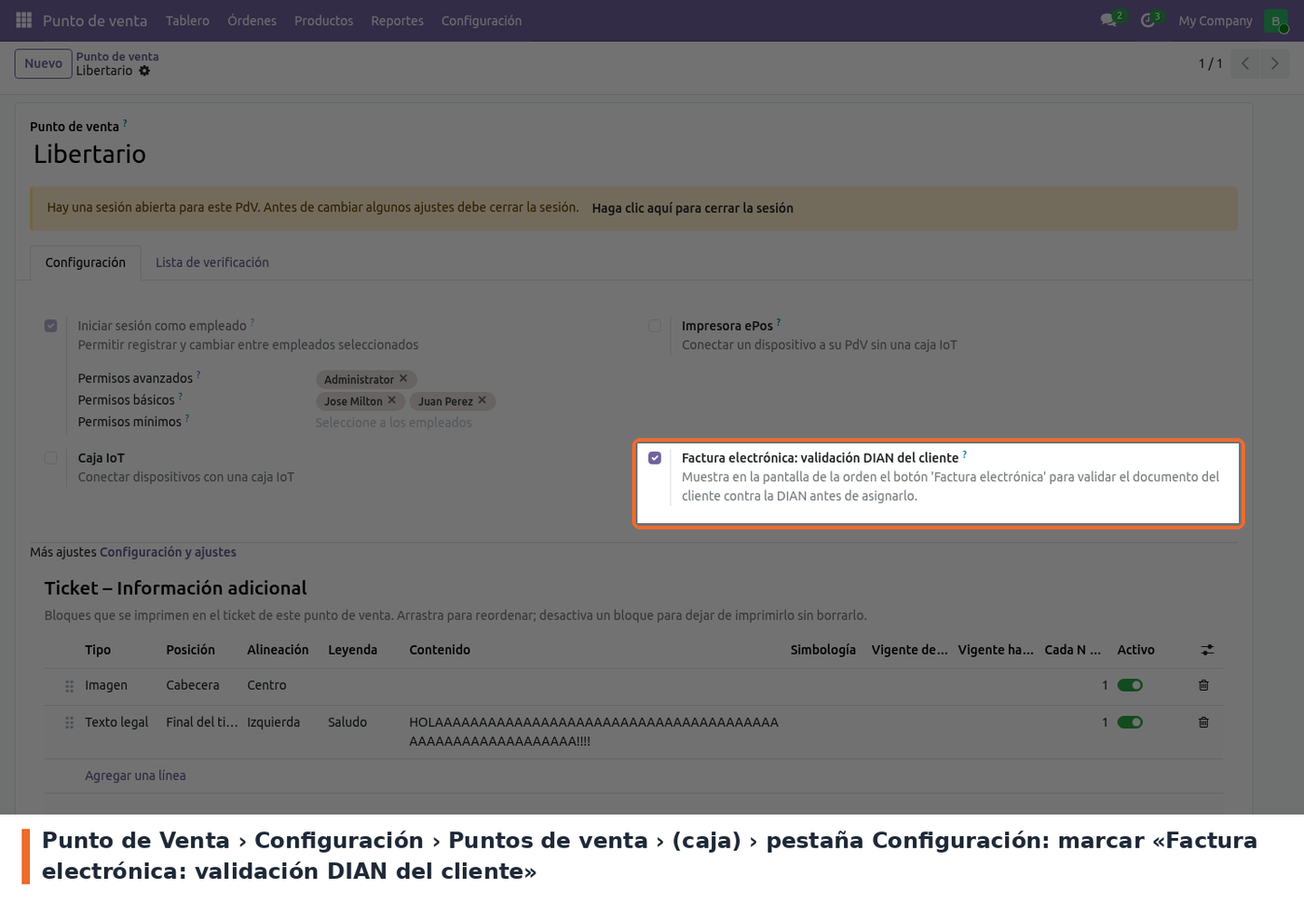
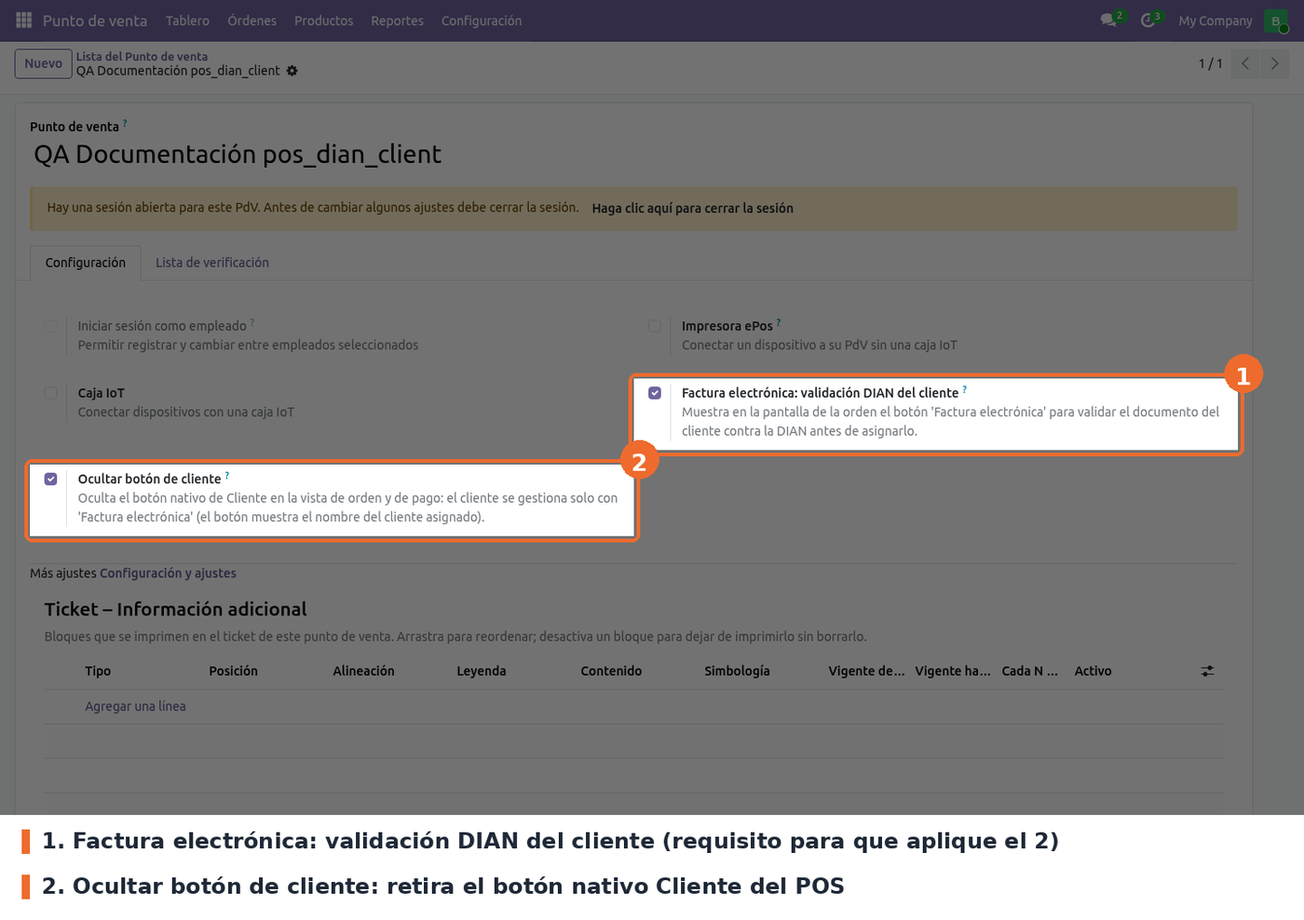
Feat: [UPD] - pos_dian_client: Mejora en la funcionalidad de ocultar el botón de cliente, incluyendo validaciones y ajustes en la interfaz de usuario.

diff --git a/custom-addons/pos_dian_client/static/description/index.html b/custom-addons/pos_dian_client/static/description/index.html
@@ -24,11 +24,15 @@ nombre y el correo con el cliente antes de asignar.</p>
 <p style="margin:0 0 12px;"><strong>Efecto colateral:</strong> el módulo <strong>oculta siempre</strong> el botón nativo <em>Guardar orden</em> (ícono de
 subida, <code style="background:#f3f4f6;border:1px solid #e5e7eb;border-radius:4px;padding:1px 5px;font-size:13px;color:#b91c1c;">fa-upload</code>) en la pantalla de producto y en la barra de acciones de pantallas chicas, esté
 activo o no el botón <em>Factura electrónica</em> en esa caja.</p>
-<p style="margin:0 0 12px;"><strong>Ocultar botón de cliente (por caja, opcional):</strong> el segundo ajuste de configuración retira el
-botón nativo <em>Cliente</em> de la vista de orden (escritorio y móvil) y de la vista de pago (donde
-<em>Factura/Recibo</em> pasa a ocupar todo el ancho). El cliente se gestiona entonces solo con <em>Factura
-electrónica</em>, que muestra debajo el nombre del cliente ya asignado. Con esta opción activa no hay
-forma de desasignar un cliente desde la interfaz.</p>
+<p style="margin:0 0 12px;"><strong>Ocultar botón de cliente (por caja, opcional):</strong> un segundo ajuste retira el botón nativo
+<em>Cliente</em> de la pantalla de producto (escritorio y barra de acciones móvil) y de la pantalla de
+pago. <strong>Solo tiene efecto si la caja también tiene marcado</strong> <em>Factura electrónica: validación DIAN
+del cliente</em>; con ese ajuste desmarcado, el botón <em>Cliente</em> sigue visible para que la caja no se
+quede sin forma de asignar cliente. Con los dos marcados, el cliente se gestiona solo con
+<em>Factura electrónica</em>, que muestra debajo el nombre del cliente asignado; en la pantalla de pago
+<em>Factura electrónica</em> pasa a la misma fila que <em>Recibo/Factura</em>, en el lugar de <em>Cliente</em>, y se resalta con el color principal del POS cuando la orden exige
+cliente y todavía no lo tiene. <strong>No hay forma de desasignar un cliente desde la interfaz</strong> con esta
+opción activa.</p>
 <div><span style="display:inline-block;background:#eef2ff;color:#4338ca;border:1px solid #c7d2fe;border-radius:999px;padding:2px 12px;font-size:12px;font-weight:600;margin:0 0 6px;">Odoo 19.0</span></div>
 <h2>Configuración</h2>
 <h2 style="font-size:19px;font-weight:600;color:#111827;margin:34px 0 12px;padding-bottom:6px;border-bottom:1px solid #e5e7eb;">Requisitos</h2>
@@ -53,12 +57,16 @@ forma de desasignar un cliente desde la interfaz.</p>
 <strong>Configuración</strong>, marcar <strong>Factura electrónica: validación DIAN del cliente</strong>. El ajuste viene
 marcado de forma predeterminada; desmarcarlo oculta los botones <em>Factura electrónica</em> en esa caja.
 El botón <em>Guardar orden</em> queda oculto igual, con el ajuste marcado o no.</p>
-<p style="margin:0 0 12px;">Justo debajo está <strong>Ocultar botón de cliente</strong> (viene desmarcado): al marcarlo, el botón nativo de
-<em>Cliente</em> desaparece de la vista de orden (escritorio y móvil) y de la vista de pago, y
-<em>Factura/Recibo</em> ocupa todo el ancho. El cliente se gestiona entonces solo con <em>Factura
-electrónica</em>, que muestra debajo el nombre del cliente ya asignado. Con esta opción no hay forma de
-desasignar un cliente desde la interfaz.</p>
-<div class="lc-fig"><img alt="Punto de Venta › Configuración › Puntos de venta › (caja) › Configuración: marcar «Factura electrónica: validación DIAN del cliente»" src="01_configuracion.png" / style="display:block;max-width:100%;height:auto;margin:16px auto 6px;border:1px solid #e5e7eb;border-radius:8px;box-shadow:0 1px 4px rgba(0,0,0,.08);"><p class="lc-cap" style="margin:0 0 24px;font-size:13px;font-style:italic;color:#6b7280;text-align:center;">Punto de Venta › Configuración › Puntos de venta › (caja) › Configuración: marcar «Factura electrónica: validación DIAN del cliente»</p></div>
+<p style="margin:0 0 12px;">A continuación está <strong>Ocultar botón de cliente</strong> (viene desmarcado). Al marcarlo, el botón
+nativo <em>Cliente</em> desaparece de la pantalla de producto (escritorio y móvil) y de la pantalla de
+pago, donde <em>Factura electrónica</em> toma su lugar junto a <em>Recibo/Factura</em>. El cliente se gestiona entonces solo con
+<em>Factura electrónica</em>, que muestra debajo el nombre del cliente ya asignado.</p>
+<p style="margin:0 0 12px;"><strong>Solo tiene efecto si «Factura electrónica: validación DIAN del cliente» también está marcado.</strong>
+Si se desmarca la validación DIAN, el botón <em>Cliente</em> vuelve a aparecer aunque <em>Ocultar botón de
+cliente</em> siga marcado.</p>
+<p style="margin:0 0 12px;"><strong>Atención:</strong> con esta opción activa no hay forma de desasignar un cliente desde la interfaz del
+POS.</p>
+<div class="lc-fig"><img alt="Punto de Venta › Configuración › Puntos de venta › (caja) › Configuración: 1. «Factura electrónica: validación DIAN del cliente»; 2. «Ocultar botón de cliente», que solo aplica con el 1 marcado" src="01_configuracion.png" / style="display:block;max-width:100%;height:auto;margin:16px auto 6px;border:1px solid #e5e7eb;border-radius:8px;box-shadow:0 1px 4px rgba(0,0,0,.08);"><p class="lc-cap" style="margin:0 0 24px;font-size:13px;font-style:italic;color:#6b7280;text-align:center;">Punto de Venta › Configuración › Puntos de venta › (caja) › Configuración: 1. «Factura electrónica: validación DIAN del cliente»; 2. «Ocultar botón de cliente», que solo aplica con el 1 marcado</p></div>
 <p style="margin:0 0 12px;">La caja puede tener una sesión abierta mientras se cambia el ajuste. El POS lo toma la próxima vez
 que se carga.</p>
 <h2 style="font-size:19px;font-weight:600;color:#111827;margin:34px 0 12px;padding-bottom:6px;border-bottom:1px solid #e5e7eb;">Opcional</h2>
@@ -106,6 +114,25 @@ con ese tipo o corregir el contacto en <em>Contactos</em>.</p>
 <p style="margin:0 0 12px;">En la pantalla de pago, el cliente aparece asignado y <strong>Recibo/Factura</strong> marcado. Al validar el
 pago, la factura sale a nombre de ese cliente y <code style="background:#f3f4f6;border:1px solid #e5e7eb;border-radius:4px;padding:1px 5px;font-size:13px;color:#b91c1c;">l10n_co_edi_jorels</code> la envía a la DIAN.</p>
 <div class="lc-fig"><img alt="Pantalla de pago: cliente asignado y Recibo/Factura marcado" src="08_pago_factura.png" / style="display:block;max-width:100%;height:auto;margin:16px auto 6px;border:1px solid #e5e7eb;border-radius:8px;box-shadow:0 1px 4px rgba(0,0,0,.08);"><p class="lc-cap" style="margin:0 0 24px;font-size:13px;font-style:italic;color:#6b7280;text-align:center;">Pantalla de pago: cliente asignado y Recibo/Factura marcado</p></div>
+<p style="margin:0 0 12px;">El botón de factura nativo de Odoo se llama <em>Invoice</em>; con el idioma Español (Latinoamérica) se lee
+<strong>Recibo/Factura</strong> y con Español (España) <strong>Factura</strong>. Es el mismo botón.</p>
+<h2 style="font-size:19px;font-weight:600;color:#111827;margin:34px 0 12px;padding-bottom:6px;border-bottom:1px solid #e5e7eb;">6. Cajas con «Ocultar botón de cliente»</h2>
+<p style="margin:0 0 12px;">Si la caja tiene marcados <strong>los dos</strong> ajustes (<em>Factura electrónica: validación DIAN del cliente</em> y
+<em>Ocultar botón de cliente</em>), el botón nativo <em>Cliente</em> no aparece y todo se hace con <strong>Factura
+electrónica</strong>:</p>
+<p style="margin:0 0 12px;"><strong>Pantalla de producto</strong> (escritorio y barra de acciones móvil): queda <em>Factura electrónica</em> (o
+<em>FE</em> en pantallas chicas) en lugar de <em>Cliente</em>. Una vez asignado, el nombre del cliente aparece
+debajo del botón (en móvil, al lado de <em>FE</em>).</p>
+<div class="lc-fig"><img alt="Pantalla de producto con «Ocultar botón de cliente»: el cliente asignado se ve bajo «Factura electrónica»" src="10_ocultar_cliente_producto.png" / style="display:block;max-width:100%;height:auto;margin:16px auto 6px;border:1px solid #e5e7eb;border-radius:8px;box-shadow:0 1px 4px rgba(0,0,0,.08);"><p class="lc-cap" style="margin:0 0 24px;font-size:13px;font-style:italic;color:#6b7280;text-align:center;">Pantalla de producto con «Ocultar botón de cliente»: el cliente asignado se ve bajo «Factura electrónica»</p></div>
+<p style="margin:0 0 12px;"><strong>Pantalla de pago:</strong> <em>Factura electrónica</em> ocupa el lugar del botón <em>Cliente</em>, en la misma fila
+que <em>Recibo/Factura</em> y con el nombre del cliente asignado debajo; <em>Recibo/Factura</em> queda al ancho
+de su contenido. En pantallas chicas los dos botones se apilan, igual que en el POS estándar. Si la orden exige cliente (por ejemplo, porque se marcó
+<em>Recibo/Factura</em>) y todavía no lo tiene, <em>Factura electrónica</em> se <strong>resalta</strong> con el color
+principal del POS, igual que se resaltaba el botón <em>Cliente</em> nativo.</p>
+<div class="lc-fig"><img alt="Pantalla de pago con «Ocultar botón de cliente»: «Factura electrónica» con el cliente asignado en el lugar de Cliente, y Recibo/Factura al ancho de su contenido" src="09_ocultar_cliente_pago.png" / style="display:block;max-width:100%;height:auto;margin:16px auto 6px;border:1px solid #e5e7eb;border-radius:8px;box-shadow:0 1px 4px rgba(0,0,0,.08);"><p class="lc-cap" style="margin:0 0 24px;font-size:13px;font-style:italic;color:#6b7280;text-align:center;">Pantalla de pago con «Ocultar botón de cliente»: «Factura electrónica» con el cliente asignado en el lugar de Cliente, y Recibo/Factura al ancho de su contenido</p></div>
+<p style="margin:0 0 12px;">Con este modo <strong>no hay forma de desasignar un cliente desde la interfaz</strong>: si se asignó el cliente
+equivocado, se valida y asigna el correcto con <em>Factura electrónica</em> (reemplaza al anterior) o se
+descarta la orden.</p>
 <h2 style="font-size:19px;font-weight:600;color:#111827;margin:34px 0 12px;padding-bottom:6px;border-bottom:1px solid #e5e7eb;">Estados y mensajes del popup</h2>
 <ul style="margin:0 0 14px;padding-left:22px;">
 <li style="margin-bottom:7px;"><strong>Cliente nuevo</strong> (<code style="background:#f3f4f6;border:1px solid #e5e7eb;border-radius:4px;padding:1px 5px;font-size:13px;color:#b91c1c;">create_ok</code>): "El cliente existe ante la DIAN y no en Odoo. Se creará con sus
@@ -146,6 +173,9 @@ pago, la factura sale a nombre de ese cliente y <code style="background:#f3f4f6;
 <li style="margin-bottom:7px;"><strong>Guardar orden oculto en todas las cajas.</strong> El botón nativo <em>Guardar orden</em> (<code style="background:#f3f4f6;border:1px solid #e5e7eb;border-radius:4px;padding:1px 5px;font-size:13px;color:#b91c1c;">fa-upload</code>) se
   quita de la pantalla de producto y de la barra de acciones aunque la caja tenga desmarcado
   <em>Factura electrónica: validación DIAN del cliente</em>.</li>
+<li style="margin-bottom:7px;"><strong>Sin desasignar cliente con «Ocultar botón de cliente».</strong> Con ese ajuste y la validación DIAN
+  marcados, el POS no ofrece forma de quitar el cliente de la orden: solo se puede reemplazar por
+  otro validado o descartar la orden.</li>
 <li style="margin-bottom:7px;"><strong>Otro tipo de documento muestra los datos de la DIAN.</strong> En el aviso <em>Existe en Odoo como …</em>, el
   popup igual muestra nombre y correo que la DIAN devolvió para el número con el tipo consultado,
   que puede ser una persona distinta del contacto de Odoo. Evaluar ocultar ese bloque en

diff --git a/custom-addons/pos_dian_client/static/src/js/dian_client_button.js b/custom-addons/pos_dian_client/static/src/js/dian_client_button.js
@@ -63,7 +63,19 @@ export async function openDianClientPopup() {
     }
 }
 
+/**
+ * "Ocultar botón de cliente" solo aplica si el botón "Factura electrónica"
+ * está activo: con los dos ajustes apagados la caja quedaría sin forma de
+ * asignar cliente.
+ */
+export function dianHidesPartner(config) {
+    return Boolean(config.show_dian_client_button && config.hide_partner_button);
+}
+
 patch(ControlButtons.prototype, {
+    get dianHidesPartner() {
+        return dianHidesPartner(this.pos.config);
+    },
     setup() {
         super.setup(...arguments);
         this.orm = useService("orm");
@@ -72,6 +84,9 @@ patch(ControlButtons.prototype, {
 });
 
 patch(ActionpadWidget.prototype, {
+    get dianHidesPartner() {
+        return dianHidesPartner(this.pos.config);
+    },
     setup() {
         super.setup(...arguments);
         this.dialog = useService("dialog");
@@ -85,6 +100,9 @@ patch(ActionpadWidget.prototype, {
 // Cliente / Recibo-Factura (la plantilla PaymentScreenButtons se renderiza
 // con t-call, así que el contexto es este componente).
 patch(PaymentScreen.prototype, {
+    get dianHidesPartner() {
+        return dianHidesPartner(this.pos.config);
+    },
     setup() {
         super.setup(...arguments);
         this.orm = useService("orm");

diff --git a/custom-addons/pos_dian_client/__manifest__.py b/custom-addons/pos_dian_client/__manifest__.py
@@ -47,6 +47,8 @@ Jorels (el mismo token de la compañía):
         "static/description/06_no_registrado.png",
         "static/description/07_tipo_distinto.png",
         "static/description/08_pago_factura.png",
+        "static/description/09_ocultar_cliente_pago.png",
+        "static/description/10_ocultar_cliente_producto.png",
     ],
     "installable": True,
     "application": False,

diff --git a/custom-addons/pos_dian_client/README.rst b/custom-addons/pos_dian_client/README.rst
@@ -46,11 +46,15 @@ nombre y el correo con el cliente antes de asignar.
 subida, ``fa-upload``) en la pantalla de producto y en la barra de acciones de pantallas chicas, esté
 activo o no el botón *Factura electrónica* en esa caja.
 
-**Ocultar botón de cliente (por caja, opcional):** el segundo ajuste de configuración retira el
-botón nativo *Cliente* de la vista de orden (escritorio y móvil) y de la vista de pago (donde
-*Factura/Recibo* pasa a ocupar todo el ancho). El cliente se gestiona entonces solo con *Factura
-electrónica*, que muestra debajo el nombre del cliente ya asignado. Con esta opción activa no hay
-forma de desasignar un cliente desde la interfaz.
+**Ocultar botón de cliente (por caja, opcional):** un segundo ajuste retira el botón nativo
+*Cliente* de la pantalla de producto (escritorio y barra de acciones móvil) y de la pantalla de
+pago. **Solo tiene efecto si la caja también tiene marcado** *Factura electrónica: validación DIAN
+del cliente*; con ese ajuste desmarcado, el botón *Cliente* sigue visible para que la caja no se
+quede sin forma de asignar cliente. Con los dos marcados, el cliente se gestiona solo con
+*Factura electrónica*, que muestra debajo el nombre del cliente asignado; en la pantalla de pago
+*Factura electrónica* pasa a la misma fila que *Recibo/Factura*, en el lugar de *Cliente*, y se resalta con el color principal del POS cuando la orden exige
+cliente y todavía no lo tiene. **No hay forma de desasignar un cliente desde la interfaz** con esta
+opción activa.
 
 **Table of contents**
 
@@ -86,16 +90,22 @@ En *Punto de Venta › Configuración › Puntos de venta*, abrir la caja y, en 
 marcado de forma predeterminada; desmarcarlo oculta los botones *Factura electrónica* en esa caja.
 El botón *Guardar orden* queda oculto igual, con el ajuste marcado o no.
 
-Justo debajo está **Ocultar botón de cliente** (viene desmarcado): al marcarlo, el botón nativo de
-*Cliente* desaparece de la vista de orden (escritorio y móvil) y de la vista de pago, y
-*Factura/Recibo* ocupa todo el ancho. El cliente se gestiona entonces solo con *Factura
-electrónica*, que muestra debajo el nombre del cliente ya asignado. Con esta opción no hay forma de
-desasignar un cliente desde la interfaz.
+A continuación está **Ocultar botón de cliente** (viene desmarcado). Al marcarlo, el botón
+nativo *Cliente* desaparece de la pantalla de producto (escritorio y móvil) y de la pantalla de
+pago, donde *Factura electrónica* toma su lugar junto a *Recibo/Factura*. El cliente se gestiona entonces solo con
+*Factura electrónica*, que muestra debajo el nombre del cliente ya asignado.
+
+**Solo tiene efecto si «Factura electrónica: validación DIAN del cliente» también está marcado.**
+Si se desmarca la validación DIAN, el botón *Cliente* vuelve a aparecer aunque *Ocultar botón de
+cliente* siga marcado.
+
+**Atención:** con esta opción activa no hay forma de desasignar un cliente desde la interfaz del
+POS.
 
 .. figure:: ../static/description/01_configuracion.png
-   :alt: Punto de Venta › Configuración › Puntos de venta › (caja) › Configuración: marcar «Factura electrónica: validación DIAN del cliente»
+   :alt: Punto de Venta › Configuración › Puntos de venta › (caja) › Configuración: 1. «Factura electrónica: validación DIAN del cliente»; 2. «Ocultar botón de cliente», que solo aplica con el 1 marcado
 
-   Punto de Venta › Configuración › Puntos de venta › (caja) › Configuración: marcar «Factura electrónica: validación DIAN del cliente»
+   Punto de Venta › Configuración › Puntos de venta › (caja) › Configuración: 1. «Factura electrónica: validación DIAN del cliente»; 2. «Ocultar botón de cliente», que solo aplica con el 1 marcado
 
 La caja puede tener una sesión abierta mientras se cambia el ajuste. El POS lo toma la próxima vez
 que se carga.
@@ -198,6 +208,40 @@ pago, la factura sale a nombre de ese cliente y ``l10n_co_edi_jorels`` la envía
 
    Pantalla de pago: cliente asignado y Recibo/Factura marcado
 
+El botón de factura nativo de Odoo se llama *Invoice*; con el idioma Español (Latinoamérica) se lee
+**Recibo/Factura** y con Español (España) **Factura**. Es el mismo botón.
+
+6. Cajas con «Ocultar botón de cliente»
+---------------------------------------
+
+Si la caja tiene marcados **los dos** ajustes (*Factura electrónica: validación DIAN del cliente* y
+*Ocultar botón de cliente*), el botón nativo *Cliente* no aparece y todo se hace con **Factura
+electrónica**:
+
+**Pantalla de producto** (escritorio y barra de acciones móvil): queda *Factura electrónica* (o
+*FE* en pantallas chicas) en lugar de *Cliente*. Una vez asignado, el nombre del cliente aparece
+debajo del botón (en móvil, al lado de *FE*).
+
+.. figure:: ../static/description/10_ocultar_cliente_producto.png
+   :alt: Pantalla de producto con «Ocultar botón de cliente»: el cliente asignado se ve bajo «Factura electrónica»
+
+   Pantalla de producto con «Ocultar botón de cliente»: el cliente asignado se ve bajo «Factura electrónica»
+
+**Pantalla de pago:** *Factura electrónica* ocupa el lugar del botón *Cliente*, en la misma fila
+que *Recibo/Factura* y con el nombre del cliente asignado debajo; *Recibo/Factura* queda al ancho
+de su contenido. En pantallas chicas los dos botones se apilan, igual que en el POS estándar. Si la orden exige cliente (por ejemplo, porque se marcó
+*Recibo/Factura*) y todavía no lo tiene, *Factura electrónica* se **resalta** con el color
+principal del POS, igual que se resaltaba el botón *Cliente* nativo.
+
+.. figure:: ../static/description/09_ocultar_cliente_pago.png
+   :alt: Pantalla de pago con «Ocultar botón de cliente»: «Factura electrónica» con el cliente asignado en el lugar de Cliente, y Recibo/Factura al ancho de su contenido
+
+   Pantalla de pago con «Ocultar botón de cliente»: «Factura electrónica» con el cliente asignado en el lugar de Cliente, y Recibo/Factura al ancho de su contenido
+
+Con este modo **no hay forma de desasignar un cliente desde la interfaz**: si se asignó el cliente
+equivocado, se valida y asigna el correcto con *Factura electrónica* (reemplaza al anterior) o se
+descarta la orden.
+
 Estados y mensajes del popup
 ----------------------------
 
@@ -243,6 +287,9 @@ Límites conocidos
 - **Guardar orden oculto en todas las cajas.** El botón nativo *Guardar orden* (``fa-upload``) se
   quita de la pantalla de producto y de la barra de acciones aunque la caja tenga desmarcado
   *Factura electrónica: validación DIAN del cliente*.
+- **Sin desasignar cliente con «Ocultar botón de cliente».** Con ese ajuste y la validación DIAN
+  marcados, el POS no ofrece forma de quitar el cliente de la orden: solo se puede reemplazar por
+  otro validado o descartar la orden.
 - **Otro tipo de documento muestra los datos de la DIAN.** En el aviso *Existe en Odoo como …*, el
   popup igual muestra nombre y correo que la DIAN devolvió para el número con el tipo consultado,
   que puede ser una persona distinta del contacto de Odoo. Evaluar ocultar ese bloque en

diff --git a/custom-addons/pos_dian_client/readme/USAGE.md b/custom-addons/pos_dian_client/readme/USAGE.md
@@ -61,6 +61,33 @@ pago, la factura sale a nombre de ese cliente y `l10n_co_edi_jorels` la envía a
 
 ![Pantalla de pago: cliente asignado y Recibo/Factura marcado](../static/description/08_pago_factura.png)
 
+El botón de factura nativo de Odoo se llama *Invoice*; con el idioma Español (Latinoamérica) se lee
+**Recibo/Factura** y con Español (España) **Factura**. Es el mismo botón.
+
+## 6. Cajas con «Ocultar botón de cliente»
+
+Si la caja tiene marcados **los dos** ajustes (*Factura electrónica: validación DIAN del cliente* y
+*Ocultar botón de cliente*), el botón nativo *Cliente* no aparece y todo se hace con **Factura
+electrónica**:
+
+**Pantalla de producto** (escritorio y barra de acciones móvil): queda *Factura electrónica* (o
+*FE* en pantallas chicas) en lugar de *Cliente*. Una vez asignado, el nombre del cliente aparece
+debajo del botón (en móvil, al lado de *FE*).
+
+![Pantalla de producto con «Ocultar botón de cliente»: el cliente asignado se ve bajo «Factura electrónica»](../static/description/10_ocultar_cliente_producto.png)
+
+**Pantalla de pago:** *Factura electrónica* ocupa el lugar del botón *Cliente*, en la misma fila
+que *Recibo/Factura* y con el nombre del cliente asignado debajo; *Recibo/Factura* queda al ancho
+de su contenido. En pantallas chicas los dos botones se apilan, igual que en el POS estándar. Si la orden exige cliente (por ejemplo, porque se marcó
+*Recibo/Factura*) y todavía no lo tiene, *Factura electrónica* se **resalta** con el color
+principal del POS, igual que se resaltaba el botón *Cliente* nativo.
+
+![Pantalla de pago con «Ocultar botón de cliente»: «Factura electrónica» con el cliente asignado en el lugar de Cliente, y Recibo/Factura al ancho de su contenido](../static/description/09_ocultar_cliente_pago.png)
+
+Con este modo **no hay forma de desasignar un cliente desde la interfaz**: si se asignó el cliente
+equivocado, se valida y asigna el correcto con *Factura electrónica* (reemplaza al anterior) o se
+descarta la orden.
+
 ## Estados y mensajes del popup
 
 - **Cliente nuevo** (`create_ok`): "El cliente existe ante la DIAN y no en Odoo. Se creará con sus

diff --git a/custom-addons/pos_dian_client/readme/CONFIGURE.md b/custom-addons/pos_dian_client/readme/CONFIGURE.md
@@ -22,13 +22,19 @@ En *Punto de Venta › Configuración › Puntos de venta*, abrir la caja y, en 
 marcado de forma predeterminada; desmarcarlo oculta los botones *Factura electrónica* en esa caja.
 El botón *Guardar orden* queda oculto igual, con el ajuste marcado o no.
 
-Justo debajo está **Ocultar botón de cliente** (viene desmarcado): al marcarlo, el botón nativo de
-*Cliente* desaparece de la vista de orden (escritorio y móvil) y de la vista de pago, y
-*Factura/Recibo* ocupa todo el ancho. El cliente se gestiona entonces solo con *Factura
-electrónica*, que muestra debajo el nombre del cliente ya asignado. Con esta opción no hay forma de
-desasignar un cliente desde la interfaz.
+A continuación está **Ocultar botón de cliente** (viene desmarcado). Al marcarlo, el botón
+nativo *Cliente* desaparece de la pantalla de producto (escritorio y móvil) y de la pantalla de
+pago, donde *Factura electrónica* toma su lugar junto a *Recibo/Factura*. El cliente se gestiona entonces solo con
+*Factura electrónica*, que muestra debajo el nombre del cliente ya asignado.
 
-![Punto de Venta › Configuración › Puntos de venta › (caja) › Configuración: marcar «Factura electrónica: validación DIAN del cliente»](../static/description/01_configuracion.png)
+**Solo tiene efecto si «Factura electrónica: validación DIAN del cliente» también está marcado.**
+Si se desmarca la validación DIAN, el botón *Cliente* vuelve a aparecer aunque *Ocultar botón de
+cliente* siga marcado.
+
+**Atención:** con esta opción activa no hay forma de desasignar un cliente desde la interfaz del
+POS.
+
+![Punto de Venta › Configuración › Puntos de venta › (caja) › Configuración: 1. «Factura electrónica: validación DIAN del cliente»; 2. «Ocultar botón de cliente», que solo aplica con el 1 marcado](../static/description/01_configuracion.png)
 
 La caja puede tener una sesión abierta mientras se cambia el ajuste. El POS lo toma la próxima vez
 que se carga.

diff --git a/custom-addons/pos_dian_client/readme/DESCRIPTION.md b/custom-addons/pos_dian_client/readme/DESCRIPTION.md
@@ -27,8 +27,12 @@ nombre y el correo con el cliente antes de asignar.
 subida, `fa-upload`) en la pantalla de producto y en la barra de acciones de pantallas chicas, esté
 activo o no el botón *Factura electrónica* en esa caja.
 
-**Ocultar botón de cliente (por caja, opcional):** el segundo ajuste de configuración retira el
-botón nativo *Cliente* de la vista de orden (escritorio y móvil) y de la vista de pago (donde
-*Factura/Recibo* pasa a ocupar todo el ancho). El cliente se gestiona entonces solo con *Factura
-electrónica*, que muestra debajo el nombre del cliente ya asignado. Con esta opción activa no hay
-forma de desasignar un cliente desde la interfaz.
+**Ocultar botón de cliente (por caja, opcional):** un segundo ajuste retira el botón nativo
+*Cliente* de la pantalla de producto (escritorio y barra de acciones móvil) y de la pantalla de
+pago. **Solo tiene efecto si la caja también tiene marcado** *Factura electrónica: validación DIAN
+del cliente*; con ese ajuste desmarcado, el botón *Cliente* sigue visible para que la caja no se
+quede sin forma de asignar cliente. Con los dos marcados, el cliente se gestiona solo con
+*Factura electrónica*, que muestra debajo el nombre del cliente asignado; en la pantalla de pago
+*Factura electrónica* pasa a la misma fila que *Recibo/Factura*, en el lugar de *Cliente*, y se resalta con el color principal del POS cuando la orden exige
+cliente y todavía no lo tiene. **No hay forma de desasignar un cliente desde la interfaz** con esta
+opción activa.

diff --git a/custom-addons/pos_dian_client/readme/ROADMAP.md b/custom-addons/pos_dian_client/readme/ROADMAP.md
@@ -6,6 +6,9 @@
 - **Guardar orden oculto en todas las cajas.** El botón nativo *Guardar orden* (`fa-upload`) se
   quita de la pantalla de producto y de la barra de acciones aunque la caja tenga desmarcado
   *Factura electrónica: validación DIAN del cliente*.
+- **Sin desasignar cliente con «Ocultar botón de cliente».** Con ese ajuste y la validación DIAN
+  marcados, el POS no ofrece forma de quitar el cliente de la orden: solo se puede reemplazar por
+  otro validado o descartar la orden.
 - **Otro tipo de documento muestra los datos de la DIAN.** En el aviso *Existe en Odoo como …*, el
   popup igual muestra nombre y correo que la DIAN devolvió para el número con el tipo consultado,
   que puede ser una persona distinta del contacto de Odoo. Evaluar ocultar ese bloque en
